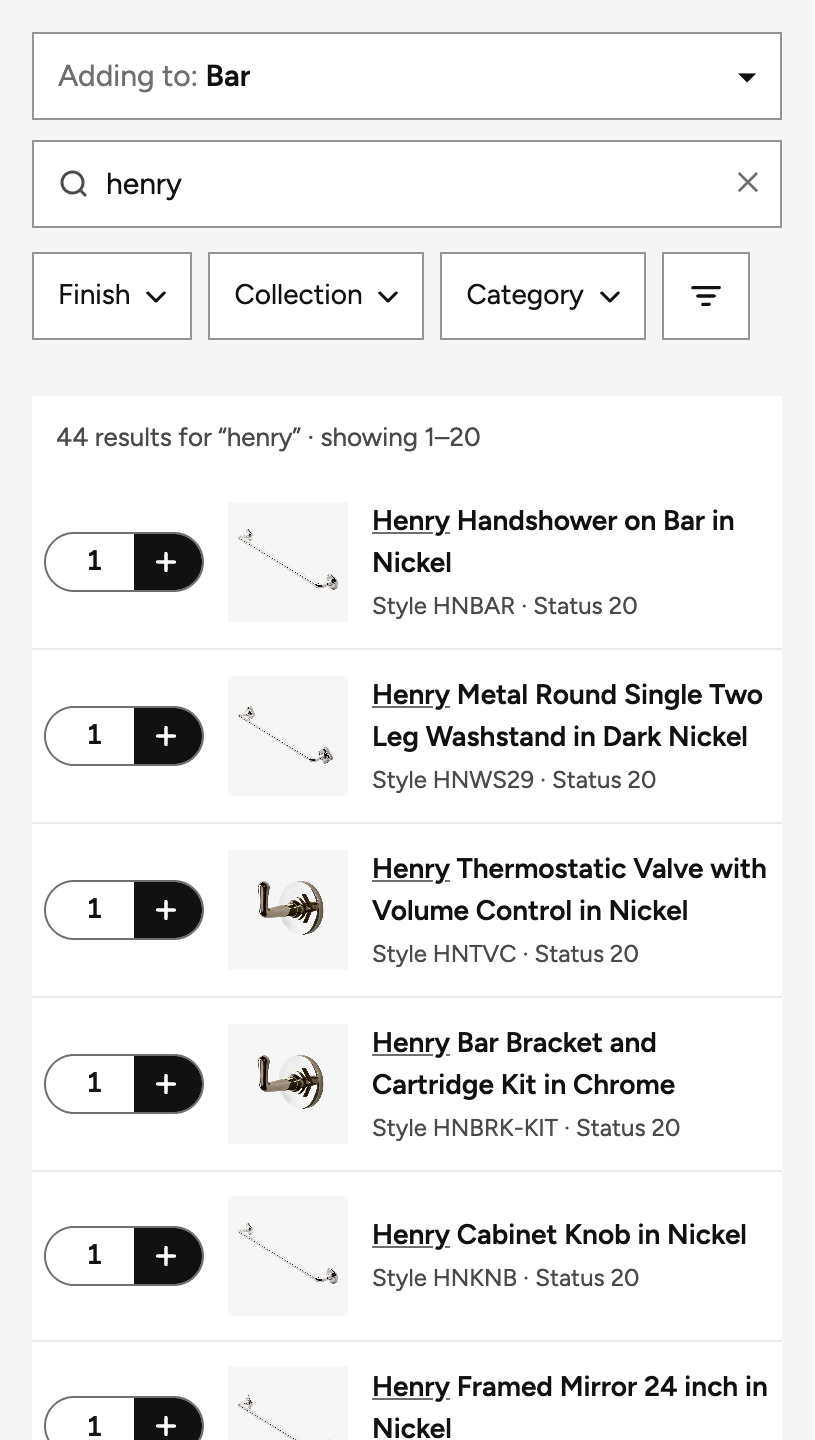
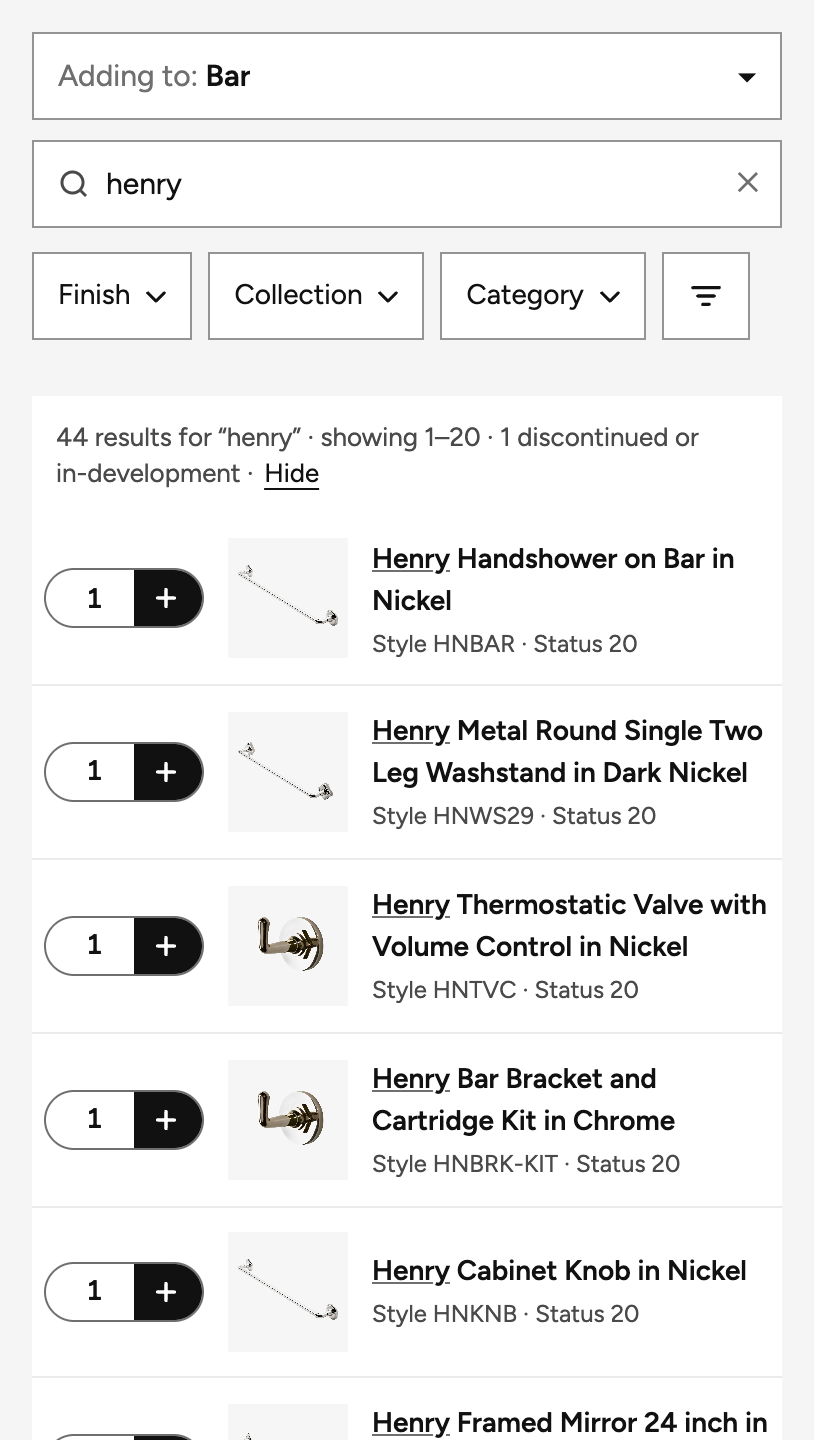
Make "Hide discontinued" a normal filter and add Hide/Show to the results count
- More filters now has "Hide discontinued and in-development items", unticked by
  default like every other filter. Ticking it hides them, shows on the More
  filters badge, and Clear all resets it. The demo bar toggle stays in step.
- The results count adds "1 discontinued or in-development · Hide" when such
  items are in the results, and "… hidden · Show" once they're hidden. Focus
  moves to the opposite link.
- Update CLAUDE.md (also documents QOM-2961 rounding), prd-trace.md and the
  S-06 and S-08 screenshots.

diff --git a/qom-product-search-prototype-v2.html b/qom-product-search-prototype-v2.html
@@ -1596,17 +1596,17 @@ function popHtml(k,label){
     if((S.fq.col||"").trim()) body=listBody("col",cols,count,"collections");
     else { const most=[...cols].sort((a,b)=>catCount("col",b)-catCount("col",a)||alpha(a,b)).slice(0,COL_MOST), rest=cols.filter(o=>!most.includes(o));
       body=fpSearch("col","collections")+`<p class="fpgrp">Most used</p>${most.map(o=>optRow("col",o,count)).join("")}<hr class="fpsep"><p class="fpgrp">All collections, A–Z</p>${rest.map(o=>optRow("col",o,count)).join("")}`; } }
-  else body=`<p class="fpgrp">Line type</p>${LT_ORDER.map(o=>optRow("lt",o,count)).join("")}<p class="fpnote">Not every product has a line type, so these may hide some products.</p><hr class="fpsep"><p class="fpgrp">Status</p><label class="fopt"><input type="checkbox" id="fpDisc"${S.disc?" checked":""}><span>Show discontinued and in-development items</span></label><p class="fpnote">Discontinued is status 80 or 90, and in development is status 10. They show with the reason they can't be added.</p>`; // the SC's own show or hide control (Kelli, Nov 5)
-  if(k!=="fin"&&groupSel(k).length) foot=`<div class="fpfoot"><span></span><button type="button" class="tolink" data-fclr="${k}">Clear</button></div>`;
+  else body=`<p class="fpgrp">Line type</p>${LT_ORDER.map(o=>optRow("lt",o,count)).join("")}<p class="fpnote">Not every product has a line type, so these may hide some products.</p><hr class="fpsep"><p class="fpgrp">Status</p><label class="fopt"><input type="checkbox" id="fpDisc"${S.disc?"":" checked"}><span>Hide discontinued and in-development items</span></label><p class="fpnote">Discontinued is status 80 or 90, and in development is status 10. They're shown by default, with the reason they can't be added.</p>`; // the SC's own show or hide control (Kelli, Nov 5): unticked by default like every other filter, so ticking it narrows the results
+  if(k!=="fin"&&(groupSel(k).length||(k==="more"&&!S.disc))) foot=`<div class="fpfoot"><span></span><button type="button" class="tolink" data-fclr="${k}">Clear</button></div>`;
   return `<div class="fpop" id="fpop" role="dialog" aria-label="${label} filter"><div class="fpbody">${body}</div>${foot}</div>`;
 }
 function focusKey(){ const a=document.activeElement; if(!a||!a.closest?.("#fpills")) return null;
   for(const at of ["f","fq","fpop","fclr","finmore","finview","finfam","fcat","ftype","catopen"]) if(a.dataset[at]!=null) return {sel:`[data-${at}="${CSS.escape(a.dataset[at])}"]`+(at==="f"?`[value="${CSS.escape(a.value)}"]`:""),pos:a.selectionStart};
   return a.id?{sel:"#"+a.id}:null; }
-const anyFilterOn=()=>Object.values(S.filters).some(v=>v.size);
+const anyFilterOn=()=>Object.values(S.filters).some(v=>v.size)||!S.disc; // hiding discontinued items counts as a filter, so Clear all appears
 function renderFilters(){
   const fk=focusKey();
-  $("#fpills").innerHTML=PILLS.map(([k,label])=>{ const on=groupSel(k).length>0, open=S.fpop===k, n=groupSel(k).length;
+  $("#fpills").innerHTML=PILLS.map(([k,label])=>{ const on=groupSel(k).length>0, open=S.fpop===k, n=groupSel(k).length+(k==="more"&&!S.disc?1:0); // the More filters badge counts "Hide discontinued" too
     if(k==="more") return `<span class="fpill ficon${open?" open":""}"><button type="button" class="fpbtn" data-fpop="more" aria-expanded="${open}" aria-haspopup="dialog"${open?' aria-controls="fpop"':""} aria-label="${n?`More filters, ${n} on`:"More filters"}" title="More filters"><svg width="20" height="20" viewBox="0 0 24 24" fill="none" stroke="currentColor" stroke-width="2" stroke-linecap="round" aria-hidden="true"><path d="M4 7h16M7 12h10M10 17h4"/></svg>${n?`<span class="fcount" aria-hidden="true">${n}</span>`:""}</button>${open?popHtml(k,label):""}</span>`; // square icon, as the old Filters button; cleared from its popover
     const black=on&&!open; // while its popover is open the pill shows as the open control, not the chip
     return `<span class="fpill${black?" on":""}${open?" open":""}"><button type="button" class="fpbtn" data-fpop="${k}" aria-expanded="${open}" aria-haspopup="dialog"${open?' aria-controls="fpop"':""}>${esc(pillText(k,label))}${black?"":CHEV}</button>${black?`<button type="button" class="fpx" data-fclr="${k}" aria-label="Clear ${label.toLowerCase()}">×</button>`:""}${open?popHtml(k,label):""}</span>`; }).join("")
@@ -1617,7 +1617,8 @@ function renderFilters(){
   if(fk){ const el=document.querySelector("#fpills "+fk.sel); if(el){ el.focus(); if(fk.pos!=null&&el.setSelectionRange) try{ el.setSelectionRange(fk.pos,fk.pos); }catch(_){} } }
 }
 function closePop(refocus){ const k=S.fpop; if(!k) return; S.fpop=null; renderFilters(); if(refocus) document.querySelector(`[data-fpop="${k}"]`)?.focus(); }
-function clearGroup(k){ (k==="all"?Object.keys(S.filters):k==="more"?MORE.map(([g])=>g):[k]).forEach(g=>{ S.filters[g].clear(); S.fq[g]=""; }); if(k==="fin"||k==="all") S.finAll=false; }
+function clearGroup(k){ (k==="all"?Object.keys(S.filters):k==="more"?MORE.map(([g])=>g):[k]).forEach(g=>{ S.filters[g].clear(); S.fq[g]=""; }); if(k==="fin"||k==="all") S.finAll=false;
+  if(k==="all"||k==="more"){ S.disc=true; const d=$("#showDisc"); if(d) d.checked=true; } } // clearing also shows discontinued items again
 function renderResults(){
   const q=S.query.trim(); const box=$("#results"); const cnt=$("#count");
   $(".search").classList.toggle("busy",!!S.loading); $("#q").setAttribute("aria-busy",String(!!S.loading));
@@ -1652,7 +1653,9 @@ function renderResults(){
     return;
   }
   const pages=Math.ceil(list.length/PAGE); S.page=Math.min(Math.max(1,S.page),pages); const from=(S.page-1)*PAGE, shown=list.slice(from,from+PAGE);
-  cnt.innerHTML=`${applied(list.length)}${pages>1?` · showing ${from+1}–${from+shown.length}`:""}${hiddenDisc?` · ${hiddenDisc} discontinued or in-development hidden`:""} <span class="fr">FR-17</span>`;
+  const shownDisc=S.disc?list.filter(p=>isDisc(p)||p.st===10).length:0; // the show or hide link only appears when it changes something
+  cnt.innerHTML=`${applied(list.length)}${pages>1?` · showing ${from+1}–${from+shown.length}`:""}${shownDisc?` · ${shownDisc} discontinued or in&#8209;development · <button type="button" class="tolink" id="hideDiscLink">Hide</button>`:hiddenDisc?` · ${hiddenDisc} discontinued or in&#8209;development hidden · <button type="button" class="tolink" id="showDiscLink">Show</button>`:""} <span class="fr">FR-17</span>`;
+  if(S.focusDisc){ $(S.focusDisc)?.focus(); S.focusDisc=null; } // keyboard focus moves to the opposite link after Hide or Show
   const rows=shown.map(p=>{ // UOM opens a tray with weight, collection and finish, as in QOM staging
     const reason=reasonFor(p); const blocked=!!reason; const canAdd=roomOk && !blocked;
     const price = p.price==null ? "—" : money(p.price);
@@ -2388,7 +2391,7 @@ document.addEventListener("click",e=>{
   if(t.id==="rmYes"){ confirmRemove(); return; }
   if(t.id==="clearQ"){ S.query=""; $("#q").value=""; t.hidden=true; search(); return; }
   if(t.id==="retry"){ S.scenario="normal"; $("#scenario").value="normal"; search(); return; }
-  if(t.id==="showDiscLink"){ S.disc=true; $("#showDisc").checked=true; search(); return; }
+  if(t.id==="showDiscLink"||t.id==="hideDiscLink"){ S.disc=t.id==="showDiscLink"; $("#showDisc").checked=S.disc; S.focusDisc=S.disc?"#hideDiscLink":"#showDiscLink"; renderFilters(); search(); return; } // Show or Hide on the results count line (and "Show them" when nothing else matches)
   if(t.id==="dismissNotice"){ S.notice=null; renderResults(); return; }
   if(t.dataset.sideroom){ const n=t.dataset.sideroom; const reduce=matchMedia("(prefers-reduced-motion: reduce)").matches; document.querySelector(`.rmblock[data-rm="${CSS.escape(n)}"]`)?.scrollIntoView({block:"start",behavior:reduce?"auto":"smooth"}); return; }
   if(t.id==="saveBtn"){ S.dirty=false; S.undo=null; LIKE_UNDO=null; hideCToast(); markSaved(); // after saving there is no Undo
@@ -2483,7 +2486,7 @@ document.addEventListener("change",e=>{
     if(t.checked&&syncLike(r,l)) S.dirty=true;
     rerenderKeepFocus(); return; }
   if(t.dataset.sf){ const [room,sku]=t.dataset.key.split("|"); const l=S.quote.rooms.find(x=>x.name===room)?.lines.find(x=>x.sku===sku); if(l){ l[t.dataset.sf]=t.value.trim(); shipDirty(); if(t.dataset.sf==="rdd"){ const n=document.querySelector(`[data-cddnote="${CSS.escape(t.dataset.key)}"]`); if(n) n.outerHTML=cddNote({name:room},l,true); } } return; }
-  if(t.id==="showDisc"||t.id==="fpDisc"){ S.disc=t.checked; $("#showDisc").checked=t.checked; renderFilters(); search(); return; } // More filters checkbox and the demo bar toggle stay in step
+  if(t.id==="showDisc"||t.id==="fpDisc"){ S.disc=t.id==="fpDisc"?!t.checked:t.checked; $("#showDisc").checked=S.disc; renderFilters(); search(); return; } // "Hide…" in More filters is the reverse of the demo bar's "Show…"; they stay in step
   if(t.id==="showPrice"){ S.price=t.checked; renderResults(); return; }
   if(t.dataset.rqty){ const sku=t.dataset.rqty, n=parseInt(t.value,10), p=CAT.find(x=>x.sku===sku), m=p.mult, up=n>0&&n%m!==0; if(n>0&&n!==S.rq[sku]){ S.rq[sku]=up?Math.ceil(n/m)*m:n; up?RROUNDED.add(sku):RROUNDED.delete(sku); } const q=S.rq[sku]??m; t.value=q; // QOM-2961: rounds up to the next multiple
     // updated in place, not re-rendered, so typing a number and then clicking Add still lands on the button

diff --git a/CLAUDE.md b/CLAUDE.md
@@ -18,14 +18,15 @@ Extract the `<script>` contents and run `node --check` on them. One stray charac
 ## What is built (v2)
 - Layout: search and quote side by side with a drag handle to resize them, plus an expand button for a full-screen quote view. The tabs layout (B) is hidden.
 - Search: runs on Enter. Words match in any order and case. Exact item numbers and old 12-digit JDE codes come first, with light typo tolerance, and matches are underlined. Service parts are ranked below sellable products (and tagged "Service part"), not hidden.
-- Filters: pills for Finish, Collection, Category (with product types beneath) and More filters (line type), each opening a popover over the results. They work before typing, stay set for the quote until cleared, and show as black removable pills with "Clear all". Counts use the same rules as the results. Values that differ only by case or spacing ("Brass", "BRASS") are one option.
+- Filters: pills for Finish, Collection, Category (with product types beneath) and More filters (line type, plus "Hide discontinued and in-development items"), each opening a popover over the results. They work before typing, stay set for the quote until cleared, and show as black removable pills with "Clear all". Counts use the same rules as the results. Values that differ only by case or spacing ("Brass", "BRASS") are one option.
 - States: an empty-search prompt, "keep typing" under three characters, loading, no results with next steps, and an error with retry.
-- Can't-add reasons: discontinued (status 80 or 90) and in development (status 10) show in results with the reason. Warehouse status and "waiting on a price" only appear when the item is added. The SC shows or hides discontinued and in-development items with a checkbox at the bottom of More filters (kept in step with the demo bar toggle).
+- Can't-add reasons: discontinued (status 80 or 90) and in development (status 10) show in results with the reason. Warehouse status and "waiting on a price" only appear when the item is added. They show by default. The SC hides them with "Hide discontinued and in-development items" at the bottom of More filters (unticked by default, like every filter; it counts on the More filters badge and Clear all resets it), or with Hide on the results count ("1 discontinued or in-development · Hide", then "… hidden · Show"). Both stay in step with the demo bar toggle.
 - Every result row shows the item's status: in the Status column when the search side is 500px or wider, otherwise in the line under the name ("Style ARTF · Status 20"). Kelli asked for it on Nov 5 because today's results show it.
 - Country of Origin shows on quote lines only in the Commercial view (it's commercial-only in QOM).
 - Results show no stock or availability. Availability appears on the quote line, worded as QOM-2926 will build it: "Available to Promise (ATP): 4" (or "9 from Feb 15, 2027" when only available later), "Estimated delivery date: Nov 12, 2026 · meets RDD" (or "· after RDD"), and "Sourcing warehouse: <code>" only when it differs from the line's warehouse (mock: Henry Single Robe Hook, HNHK-N, ships from USR). ATP and the date each have a two-layer tooltip: a plain sentence, then an "M3:" line (AVTP, CODZ, OIS340MI/LstSupplSummary, mock customer and quantity). No "as of" time.
 - Room picker: the quote's own rooms come first, then "+ Add room", then the standard room types. One form adds or renames a room: "Rename room" in a room's "…" menu opens the Add room form filled in. Type is required and name is optional. The room bar shows the type in grey after the name ("sams kitchen · Kitchen") unless they're the same.
 - Quote panel: rooms, lines, quantities, per-line shipping, "Find in this quote", plus Quote information and PDF preview tabs.
+- Quantities follow QOM-2491 (order multiples): items sold in multiples start at one multiple, + and − step by it, and the helper reads "Sold in increments of 10 square feet". A typed amount that isn't a whole multiple rounds up to the next one, with QOM-2961's note ("Rounded up to 30 square feet: this item is sold in increments of 10 square feet."), on result rows and quote lines. A saved quantity that's already wrong is flagged, not changed.
 - Footer bar: save status with an "unsaved changes" marker, Save, Calculate freight, Send to client, and the "Before you send" panel.
 
 ## Demo bar (black bar at the top, not part of the design)
@@ -40,7 +41,7 @@ Extract the `<script>` contents and run `node --check` on them. One stray charac
 - Simulate a save that returns an Autospec or Pricing problem.
 - Toggles:
   - Stock warning examples: on by default.
-  - Show discontinued and in-development: on by default. The same setting is the "Show discontinued and in-development items" checkbox in More filters.
+  - Show discontinued and in-development: on by default. It's the reverse of "Hide discontinued and in-development items" in More filters, and they stay in step.
   - Price in results (needs an M3 call per item): off by default.
   - Concept: Required parts on add (QOM-2561): off by default; `#concept-required-parts` in the URL also turns it on. It offers rough-in valves and often-added parts under a newly added line, using a mock `requiredParts` map.
 

diff --git a/prd-trace.md b/prd-trace.md
@@ -23,8 +23,8 @@ PRD: `prd.md` (last updated Nov 5, 2026). Prototype: `qom-product-search-prototy
 | FR-3 | Filters stay set across searches until cleared; finish options match the product type | `S.filters` L1364. Filter pills L1449–1580. `finishPools()` L1507 separates metal finishes from stone and tile colors by category | Meets | `search()`, clearing the search, and switching rooms (`pickRoom` L1699) all leave `S.filters` alone |
 | FR-3 ☐ | Filters work before any text is typed | `renderResults()` L1589 shows the empty prompt only when there's no query *and* no filter. Scenario: Fresh, then open the Finish pill | Meets | In node, Finish: Nickel plus Collection: Highgate with no text returns 3 products |
 | FR-3 ☐ | A finish chosen once stays on for the next search in that quote | Clear and search handlers at L2299 and L2402–2404 change only `S.query` | Meets | Exception: switching the Scenario to Fresh or Normal clears filters (`clearGroup("all")`, L2354), but that's a demo reset |
-| FR-4 | Can this go on the quote, and if not, why, in plain words (80 or 90, 10, warehouse, not set up, waiting on price); show/hide; commercial-only and UK-only rules keep working | `isDisc()` (80 or 90) and `reasonFor()` (in results). `addLine()` (at the add). Show/hide: the "Show discontinued and in-development items" checkbox in More filters (`#fpDisc`), in step with the demo bar toggle | Partly | Statuses 80, 90 and 10 show in results. Warehouse 50 and no price show at the add. "Not set up" and UK-only aren't modelled |
-| FR-4 ☐ | No line from search is dropped at save for product status; discontinued and in-development items show with the reason | `canAdd = roomOk && !blocked` L1621. Search "arrow tub filler" (ARTF-MB, status 80) | Meets | Blocked rows can't be added. With the toggle off, results say "n discontinued or in-development hidden" and no-results offers "Show them" |
+| FR-4 | Can this go on the quote, and if not, why, in plain words (80 or 90, 10, warehouse, not set up, waiting on price); show/hide; commercial-only and UK-only rules keep working | `isDisc()` (80 or 90) and `reasonFor()` (in results). `addLine()` (at the add). Show/hide: "Hide discontinued and in-development items" in More filters (`#fpDisc`, unticked by default), and Hide/Show on the results count (`#hideDiscLink`, `#showDiscLink`), in step with the demo bar toggle | Partly | Statuses 80, 90 and 10 show in results. Warehouse 50 and no price show at the add. "Not set up" and UK-only aren't modelled |
+| FR-4 ☐ | No line from search is dropped at save for product status; discontinued and in-development items show with the reason | `canAdd = roomOk && !blocked` L1621. Search "arrow tub filler" (ARTF-MB, status 80) | Meets | Blocked rows can't be added. The count says "n discontinued or in-development · Hide"; once hidden, "n discontinued or in-development hidden · Show", and no-results offers "Show them" |
 | FR-4 ☐ | Reasons are sentences an SC can act on, with the item's status shown alongside (PRD updated Nov 5 after Kelli's review) | `reasonFor()`. Status on every row: the Status column at 500px+, or "Style … · Status 20" under the name. Add-time notice (try adding HNTWL-DB or HGBID-N) | Meets | Each reason is a sentence with a next step ("look for a replacement", "ask Product Ops"), and the status shows next to it |
 | FR-4 ☐ | Commercial-only items never on residential quotes; commercial sees all; UK-only stays off US quotes | `visible()` L1404–1409. Demo bar: View = Residential or Commercial | Partly | In node, "commercial" gives 0 results on Residential and 2 on Commercial. No UK-only field (CFI4) or rule exists in the mock |
 | FR-5 | Visible loading, zero results with next steps, error that says whether to retry | `renderResults()` (loading, error and no-results branches). `search()` delay. Scenario: "Search · Loading", "Search · Error" | Meets (fixed) | All three states can now be reached from the demo bar |
